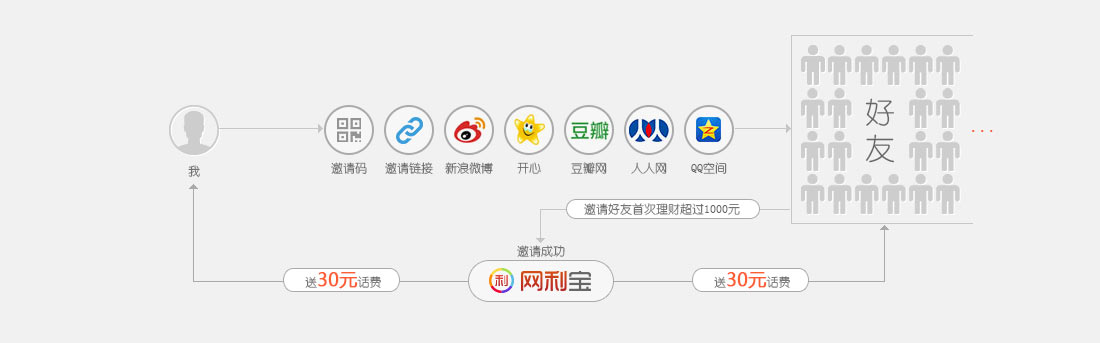
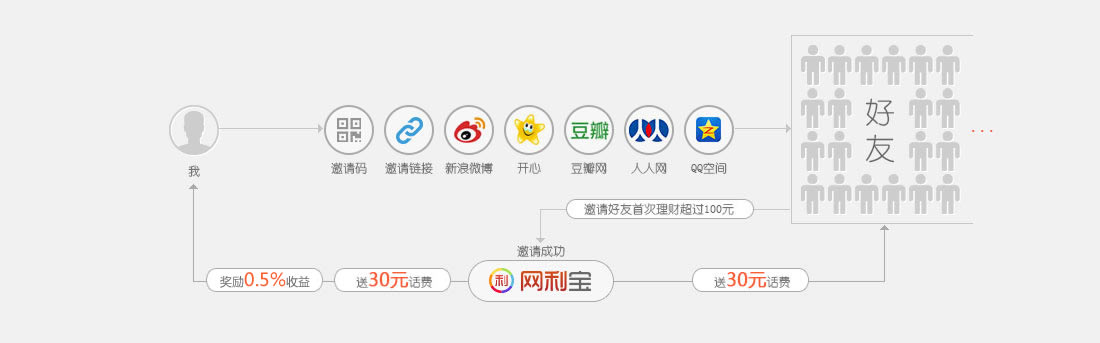
change 1000 to 100

Changed region(s): [[0.1855, 0.7872, 0.4018, 0.8455], [0.6491, 0.5831, 0.7109, 0.6414]]

diff --git a/static/css/wap/activity.css b/static/css/wap/activity.css
@@ -207,7 +207,7 @@ header {
 
 }
 header.xunlei_02 {
-    background: #b21b14 url(/static/images/wap/header_02.png) center center no-repeat;
+    background: #b21b14 url(/static/images/wap/header_02_1.png) center center no-repeat;
     webkit-background-size: 100% 100%;
     -moz-background-size: 100% 100%;
     -o-background-size: 100% 100%;

diff --git a/wanglibao_p2p/trade.py b/wanglibao_p2p/trade.py
@@ -60,7 +60,7 @@ class P2PTrader(object):
 
                 inviter_id = introduced_by.introduced_by.id
                 invited_id = introduced_by.user.id
-                if amount >= 1000:
+                if amount >= 100:
                     inviter_phone = safe_phone_str(inviter_phone)
                     invited_phone = safe_phone_str(invited_phone)
 
@@ -102,7 +102,7 @@ class P2PTrader(object):
             jiuxian_introduce.bought_at = timezone.now()
             jiuxian_introduce.save()
 
-            if amount >= 500:
+            if amount >= 100:
                 invited_phone = safe_phone_str(jiuxian_introduce.user.wanglibaouserprofile.phone)
                 send_messages.apply_async(kwargs={
                     "phones": [invited_phone],
